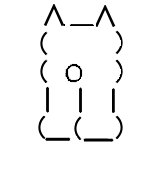
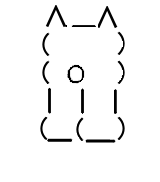
incorporated gyudon's mona fixes

Changed region(s): [[0.2188, 0.0275, 0.7812, 0.7967], [0.7188, 0.3297, 0.7812, 0.467]]

diff --git a/static/scripts/character.js b/static/scripts/character.js
@@ -129,6 +129,7 @@ export const characters = {
     winter_shii: new Character("winter_shii", "svg", false),
     longcat: new Character("longcat", "png", false),    
     hotaru: new Character("hotaru", "png", false),
+    mona: new Character("mona", "png", false),
 
     shar_naito: new Character("shar_naito", "svg", true),
     ika: new Character("ika", "svg", true),

diff --git a/index.ts b/index.ts
@@ -1629,6 +1629,7 @@ async function getCharacterImages(crisp: boolean)
 	|| characterId == "giko_gold"
 	|| characterId == "longcat"
 	|| characterId == "hotaru"
+	|| characterId == "mona"
 	|| characterId == "blankchan"
 	) ? "png" : "svg"
 
